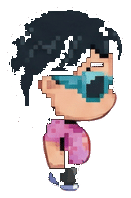
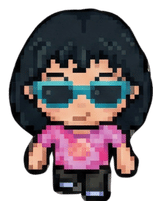
Pet buffs on the match screen, and the finished pet animations
The aura was disclosed on the VS card and then invisible for the rest of
the fight. A chip strip now sits under each fighter's meter for the whole
match: which lines that fighter is carrying, and how much.

Values are read from the FIGHTER, not from the match pin. The aura lives
in GameState, so the strip renders in replays too and can never disagree
with what the sim is actually applying; only the pet's name and tint come
from the pin.

The CRIT chip inverts on the tick the sim actually rolls a crit — the one
aura line that otherwise had no feedback at all beyond a bigger number.

Three layout defects found by looking at it rather than by trusting it:
- the strip first landed on EXACTLY the wallet/stats row offset, hiding
  the first chip behind "459 CR · LV 1" and, on the right, behind the
  partner badge. It now sits below that band unconditionally — a HUD row
  that moves depending on whether you are signed in is worse than one
  that always sits a little low;
- chips washed out over bright stage art, so they have a backing plate;
- the strip is clamped to stop short of the centre logo and reports "+N"
  for anything that did not fit, instead of sliding underneath it. A real
  roll tops out at three lines so this should never bite, but the marker's
  own width is counted in the total — without that, the right-hand side
  (laid out from the right edge inward) drew it off-screen.

Also ships the finished pet art: circuitmoth (6 frames), nullpup (4) and
[…]

diff --git a/packages/client/demo/agent-fighter.html b/packages/client/demo/agent-fighter.html
@@ -7378,6 +7378,118 @@ const drawItemSlot = (ctx, i, f, tick, isLocal) => {
     // (Active-buff feedback lives in drawBuffState — glow, energy bars, and
     // the XL countdown — so no tiny chips here anymore.)
 };
+/**
+ * PET AURA (ADR 0011) — the permanent buff strip.
+ *
+ * Values are read from the FIGHTER, not from the match pin: the aura lives in
+ * GameState, so this renders correctly in a replay too, and it can never
+ * disagree with what the sim is actually applying.
+ *
+ * Order and colours mirror @af/core AURA_LINES.
+ */
+const AURA_CHIPS = [
+    { read: (f) => f.auraAtk, tag: 'ATK', color: '#ff9d6b' },
+    { read: (f) => f.auraDef, tag: 'DEF', color: '#6fd3ff' },
+    { read: (f) => f.auraHpRegen, tag: 'HP', color: '#7cffa0' },
+    { read: (f) => f.auraCrit, tag: 'CRIT', color: '#ffd166' },
+    { read: (f) => f.auraEnergyRegen, tag: 'NRG', color: '#c084fc' },
+];
+/** Per-mille → "4.3%" (trailing ".0" trimmed), matching the profile page. */
+const auraPct = (v) => `${(v / 10).toFixed(1).replace(/\.0$/, '')}%`;
+/**
+ * A row of chips under the meter: which aura lines this fighter is carrying
+ * and how much. Always on (unlike a drink, an aura is never spent), so it sits
+ * quietly at low contrast — except the CRIT chip, which flares on the tick the
+ * sim actually rolls one, turning an invisible mechanic into visible feedback.
+ */
+const drawPetAura = (ctx, i, f, tick, pet) => {
+    const lines = AURA_CHIPS
+        .map((c) => ({ ...c, amount: c.read(f) }))
+        .filter((c) => c.amount > 0);
+    if (lines.length === 0)
+        return;
+    const tint = pet?.tint ?? '#cfd8e3';
+    // BELOW the wallet/stats band, which starts at exactly this offset and runs
+    // two rows deep — sharing that line hid the first chip behind "459 CR · LV1"
+    // on the left and behind the partner badge on the right. The offset is
+    // UNCONDITIONAL even when there is no id strip: a HUD row that moves
+    // depending on whether you are signed in is worse than one that always sits
+    // a little low.
+    const y = HUD.meterY + HUD.meterSegH + 9 + 30;
+    const h = 15;
+    const pad = 6;
+    const gap = 5;
+    const flare = f.critFlash > 0;
+    ctx.save();
+    ctx.font = 'bold 10px ui-monospace, Consolas, monospace';
+    // Measure first so the whole strip can be right-aligned for player 2.
+    const pawW = 13;
+    const all = lines.map((c) => ({
+        ...c,
+        w: ctx.measureText(`${c.tag} +${auraPct(c.amount)}`).width + pad * 2,
+    }));
+    // Never run under the centre logo/timer. A real roll tops out at THREE
+    // lines (rarity decides how many), so this only bites if that ever changes
+    // — but a HUD that silently slides under the brand mark is not something to
+    // leave to a data constant somewhere else.
+    const budget = VW / 2 - 150 - HUD.edge;
+    const shown = [];
+    let used = pawW;
+    for (const c of all) {
+        if (used + c.w + gap > budget)
+            break;
+        used += c.w + gap;
+        shown.push(c);
+    }
+    const hidden = all.length - shown.length;
+    if (shown.length === 0) {
+        ctx.restore();
+        return;
+    }
+    const widths = shown.map((c) => c.w);
+    // The overflow marker is part of the strip's width, or P2 — which is laid
+    // out from the RIGHT edge inward — would draw it off the screen.
+    const overflowW = hidden > 0 ? ctx.measureText(`+${hidden}`).width + 4 : 0;
+    const total = used + overflowW;
+    let x = i === 0 ? HUD.edge : VW - HUD.edge - total;
+    // Backing plate: the strip sits over stage art that can be any brightness.
+    ctx.fillStyle = 'rgba(8,10,16,0.55)';
+    ctx.fillRect(x - 4, y - 2, total + 8, h + 4);
+    // Paw mark: whose buff this is, in the pet's own colour.
+    ctx.fillStyle = tint;
+    ctx.globalAlpha = 0.9;
+    ctx.beginPath();
+    ctx.arc(x + 5, y + h / 2 + 1, 3.1, 0, Math.PI * 2);
+    ctx.fill();
+    for (let t = 0; t < 3; t++) {
+        ctx.beginPath();
+        ctx.arc(x + 1.6 + t * 3.4, y + h / 2 - 4.2, 1.5, 0, Math.PI * 2);
+        ctx.fill();
+    }
+    ctx.globalAlpha = 1;
+    x += pawW;
+    shown.forEach((c, k) => {
+        const w = widths[k];
+        const hot = c.tag === 'CRIT' && flare;
+        ctx.globalAlpha = hot ? 1 : 0.95;
+        ctx.fillStyle = hot ? c.color : `${c.color}26`;
+        ctx.fillRect(x, y, w, h);
+        ctx.fillStyle = hot ? c.color : `${c.color}66`;
+        ctx.fillRect(x, y, 2, h); // inner accent bar
+        ctx.fillStyle = hot ? '#12070a' : c.color;
+        ctx.textAlign = 'left';
+        ctx.fillText(`${c.tag} +${auraPct(c.amount)}`, x + pad, y + h - 4);
+        ctx.globalAlpha = 1;
+        x += w + gap;
+    });
+    // Say so when a line did not fit, rather than quietly dropping it.
+    if (hidden > 0) {
+        ctx.fillStyle = `${tint}bb`;
+        ctx.textAlign = 'left';
+        ctx.fillText(`+${hidden}`, x, y + h - 4);
+    }
+    ctx.restore();
+};
 /** Buff accents: [0] = OVERCLOCK (damage), [1] = FIREWALL (defense). */
 const BUFF_UI = [
     { color: '#ff9d6b' },
@@ -7446,7 +7558,8 @@ const drawBuffState = (ctx, i, f, tick) => {
 const drawHud = (ctx, g, rosters, fx, tags, // per-player nameplate suffix (e.g. "AGENT LV 12")
 autoSpecialCharged = false, // local player has ≥1 bar → logo badge glows red
 ids, // wallet + stats strip under each HUD block
-localSide = -1) => {
+localSide = -1, // which side is the human's (their can is tappable); -1 none
+pets) => {
     for (const i of [0, 1]) {
         const f = g.fighters[i];
         const max = rosters[i].ch.b.maxHealth;
@@ -7464,6 +7577,7 @@ localSide = -1) => {
             drawPlayerId(ctx, i, ids[i]);
         drawItemSlot(ctx, i, f, g.tick, i === localSide);
         drawBuffState(ctx, i, f, g.tick);
+        drawPetAura(ctx, i, f, g.tick, pets?.[i]);
     }
     drawTimer(ctx, Math.ceil(g.timerTicks / TICKS_PER_SEC), g.tick);
     // Combo counter: punches in on each new hit (re-triggered via comboAge
@@ -13950,7 +14064,13 @@ const renderFight = (g) => {
     // CONSUMABLES: which side is the human's, so drawHud makes only YOUR can
     // tappable ('item:use') and prompts it. -1 for local 2P (both are human,
     // no online item flow — practice mode carries nothing).
-    net ? localSide() : (mode === 'cpu' ? 0 : -1));
+    net ? localSide() : (mode === 'cpu' ? 0 : -1), 
+    // PETS (ADR 0011): name + tint only. The aura VALUES the strip prints come
+    // from the fighters themselves, so the HUD can never disagree with the sim.
+    [
+        matchPets[0] ? { name: matchPets[0].def.name, tint: matchPets[0].tint } : null,
+        matchPets[1] ? { name: matchPets[1].def.name, tint: matchPets[1].tint } : null,
+    ]);
     // Screen-space FX (announcement shockwaves) — over the HUD so a KO ring
     // sweeps across the whole frame.
     drawFx(ctx, 'screen');

diff --git a/packages/client/src/ui.ts b/packages/client/src/ui.ts
@@ -925,6 +925,132 @@ const drawItemSlot = (
   // the XL countdown — so no tiny chips here anymore.)
 };
 
+/**
+ * PET AURA (ADR 0011) — the permanent buff strip.
+ *
+ * Values are read from the FIGHTER, not from the match pin: the aura lives in
+ * GameState, so this renders correctly in a replay too, and it can never
+ * disagree with what the sim is actually applying.
+ *
+ * Order and colours mirror @af/core AURA_LINES.
+ */
+const AURA_CHIPS = [
+  { read: (f: GameState['fighters'][0]) => f.auraAtk, tag: 'ATK', color: '#ff9d6b' },
+  { read: (f: GameState['fighters'][0]) => f.auraDef, tag: 'DEF', color: '#6fd3ff' },
+  { read: (f: GameState['fighters'][0]) => f.auraHpRegen, tag: 'HP', color: '#7cffa0' },
+  { read: (f: GameState['fighters'][0]) => f.auraCrit, tag: 'CRIT', color: '#ffd166' },
+  { read: (f: GameState['fighters'][0]) => f.auraEnergyRegen, tag: 'NRG', color: '#c084fc' },
+] as const;
+
+/** Per-mille → "4.3%" (trailing ".0" trimmed), matching the profile page. */
+const auraPct = (v: number): string => `${(v / 10).toFixed(1).replace(/\.0$/, '')}%`;
+
+/** What the HUD knows about a side's pet — name/tint only; values come from the sim. */
+export interface PetHud { name: string; tint: string }
+
+/**
+ * A row of chips under the meter: which aura lines this fighter is carrying
+ * and how much. Always on (unlike a drink, an aura is never spent), so it sits
+ * quietly at low contrast — except the CRIT chip, which flares on the tick the
+ * sim actually rolls one, turning an invisible mechanic into visible feedback.
+ */
+const drawPetAura = (
+  ctx: CanvasRenderingContext2D, i: 0 | 1, f: GameState['fighters'][0],
+  tick: number, pet?: PetHud | null,
+): void => {
+  const lines = AURA_CHIPS
+    .map((c) => ({ ...c, amount: c.read(f) }))
+    .filter((c) => c.amount > 0);
+  if (lines.length === 0) return;
+
+  const tint = pet?.tint ?? '#cfd8e3';
+  // BELOW the wallet/stats band, which starts at exactly this offset and runs
+  // two rows deep — sharing that line hid the first chip behind "459 CR · LV1"
+  // on the left and behind the partner badge on the right. The offset is
+  // UNCONDITIONAL even when there is no id strip: a HUD row that moves
+  // depending on whether you are signed in is worse than one that always sits
+  // a little low.
+  const y = HUD.meterY + HUD.meterSegH + 9 + 30;
+  const h = 15;
+  const pad = 6;
+  const gap = 5;
+  const flare = f.critFlash > 0;
+
+  ctx.save();
+  ctx.font = 'bold 10px ui-monospace, Consolas, monospace';
+
+  // Measure first so the whole strip can be right-aligned for player 2.
+  const pawW = 13;
+  const all = lines.map((c) => ({
+    ...c,
+    w: ctx.measureText(`${c.tag} +${auraPct(c.amount)}`).width + pad * 2,
+  }));
+
+  // Never run under the centre logo/timer. A real roll tops out at THREE
+  // lines (rarity decides how many), so this only bites if that ever changes
+  // — but a HUD that silently slides under the brand mark is not something to
+  // leave to a data constant somewhere else.
+  const budget = VW / 2 - 150 - HUD.edge;
+  const shown: typeof all = [];
+  let used = pawW;
+  for (const c of all) {
+    if (used + c.w + gap > budget) break;
+    used += c.w + gap;
+    shown.push(c);
+  }
+  const hidden = all.length - shown.length;
+  if (shown.length === 0) { ctx.restore(); return; }
+
+  const widths = shown.map((c) => c.w);
+  // The overflow marker is part of the strip's width, or P2 — which is laid
+  // out from the RIGHT edge inward — would draw it off the screen.
+  const overflowW = hidden > 0 ? ctx.measureText(`+${hidden}`).width + 4 : 0;
+  const total = used + overflowW;
+  let x = i === 0 ? HUD.edge : VW - HUD.edge - total;
+
+  // Backing plate: the strip sits over stage art that can be any brightness.
+  ctx.fillStyle = 'rgba(8,10,16,0.55)';
+  ctx.fillRect(x - 4, y - 2, total + 8, h + 4);
+
+  // Paw mark: whose buff this is, in the pet's own colour.
+  ctx.fillStyle = tint;
+  ctx.globalAlpha = 0.9;
+  ctx.beginPath();
+  ctx.arc(x + 5, y + h / 2 + 1, 3.1, 0, Math.PI * 2);
+  ctx.fill();
+  for (let t = 0; t < 3; t++) {
+    ctx.beginPath();
+    ctx.arc(x + 1.6 + t * 3.4, y + h / 2 - 4.2, 1.5, 0, Math.PI * 2);
+    ctx.fill();
+  }
+  ctx.globalAlpha = 1;
+  x += pawW;
+
+  shown.forEach((c, k) => {
+    const w = widths[k]!;
+    const hot = c.tag === 'CRIT' && flare;
+    ctx.globalAlpha = hot ? 1 : 0.95;
+    ctx.fillStyle = hot ? c.color : `${c.color}26`;
+    ctx.fillRect(x, y, w, h);
+    ctx.fillStyle = hot ? c.color : `${c.color}66`;
+    ctx.fillRect(x, y, 2, h); // inner accent bar
+    ctx.fillStyle = hot ? '#12070a' : c.color;
+    ctx.textAlign = 'left';
+    ctx.fillText(`${c.tag} +${auraPct(c.amount)}`, x + pad, y + h - 4);
+    ctx.globalAlpha = 1;
+    x += w + gap;
+  });
+
+  // Say so when a line did not fit, rather than quietly dropping it.
+  if (hidden > 0) {
+    ctx.fillStyle = `${tint}bb`;
+    ctx.textAlign = 'left';
+    ctx.fillText(`+${hidden}`, x, y + h - 4);
+  }
+
+  ctx.restore();
+};
+
 /** Buff accents: [0] = OVERCLOCK (damage), [1] = FIREWALL (defense). */
 const BUFF_UI = [
   { color: '#ff9d6b' },
@@ -1007,6 +1133,7 @@ export const drawHud = (
   autoSpecialCharged = false, // local player has ≥1 bar → logo badge glows red
   ids?: [HudId | null, HudId | null], // wallet + stats strip under each HUD block
   localSide: number = -1, // which side is the human's (their can is tappable); -1 none
+  pets?: [PetHud | null, PetHud | null], // pet name/tint for the aura strip (ADR 0011)
 ): void => {
   for (const i of [0, 1] as const) {
     const f = g.fighters[i];
@@ -1024,6 +1151,7 @@ export const drawHud = (
     if (ids?.[i]) drawPlayerId(ctx, i, ids[i]!);
     drawItemSlot(ctx, i, f, g.tick, i === localSide);
     drawBuffState(ctx, i, f, g.tick);
+    drawPetAura(ctx, i, f, g.tick, pets?.[i]);
   }
   drawTimer(ctx, Math.ceil(g.timerTicks / TICKS_PER_SEC), g.tick);
 

diff --git a/packages/client/src/main.ts b/packages/client/src/main.ts
@@ -2046,7 +2046,13 @@ const renderFight = (g: GameState): void => {
     // CONSUMABLES: which side is the human's, so drawHud makes only YOUR can
     // tappable ('item:use') and prompts it. -1 for local 2P (both are human,
     // no online item flow — practice mode carries nothing).
-    net ? localSide() : (mode === 'cpu' ? 0 : -1));
+    net ? localSide() : (mode === 'cpu' ? 0 : -1),
+    // PETS (ADR 0011): name + tint only. The aura VALUES the strip prints come
+    // from the fighters themselves, so the HUD can never disagree with the sim.
+    [
+      matchPets[0] ? { name: matchPets[0].def.name, tint: matchPets[0].tint } : null,
+      matchPets[1] ? { name: matchPets[1].def.name, tint: matchPets[1].tint } : null,
+    ]);
 
   // Screen-space FX (announcement shockwaves) — over the HUD so a KO ring
   // sweeps across the whole frame.
